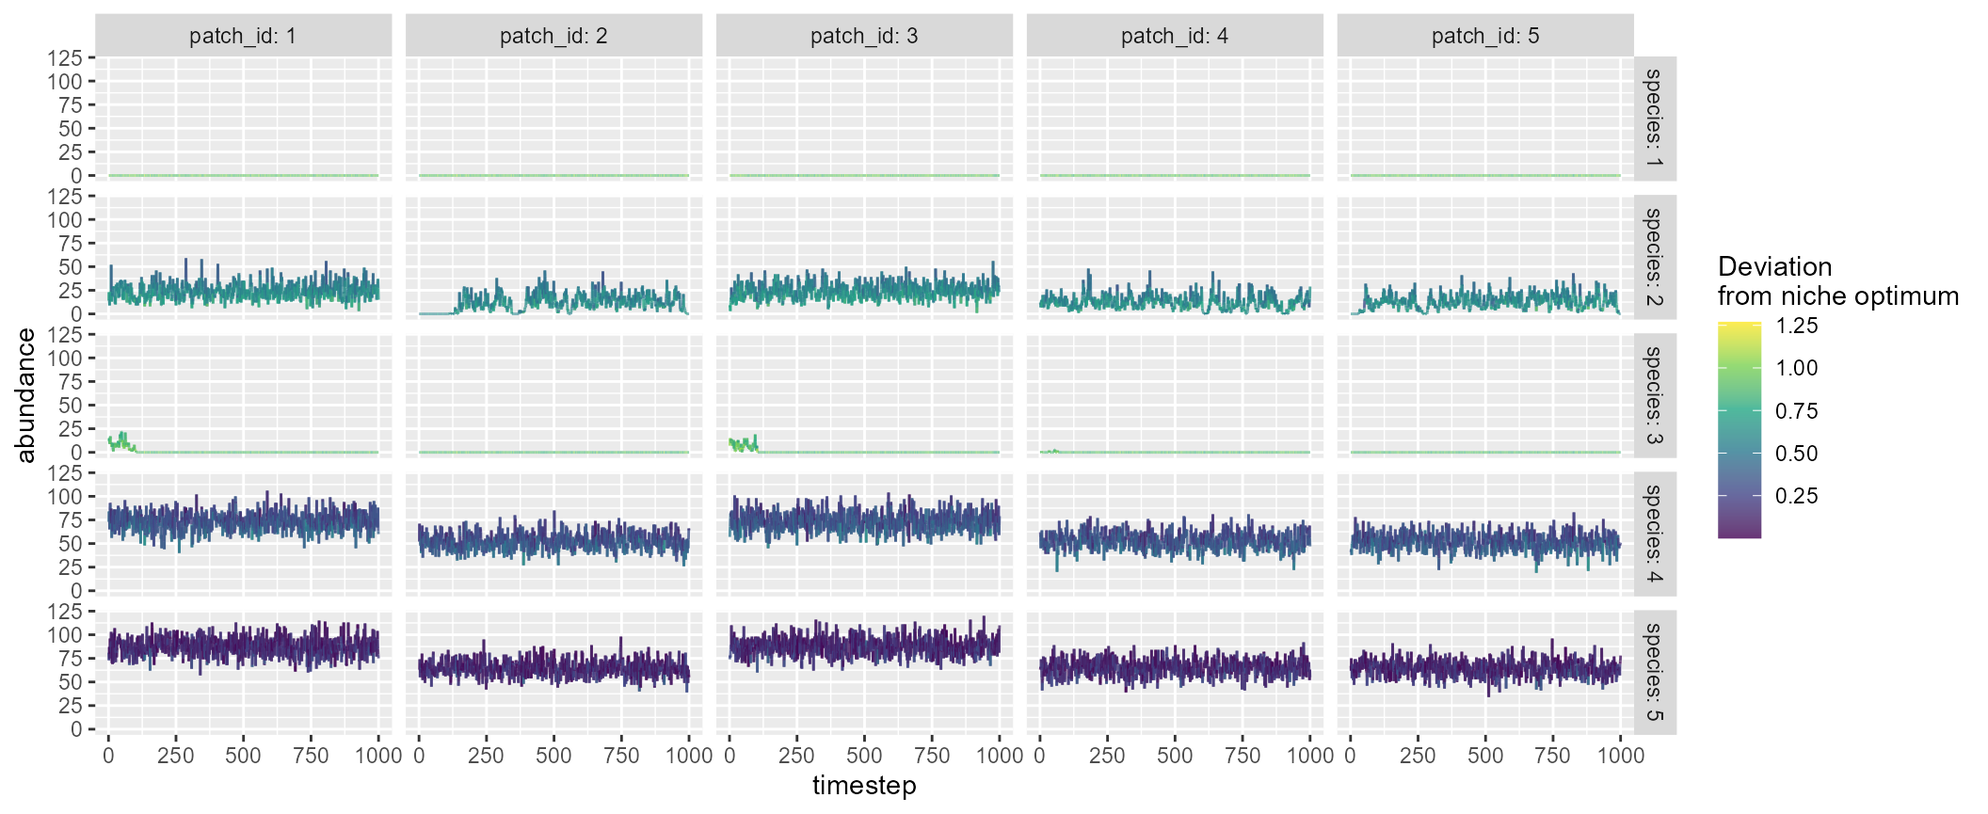
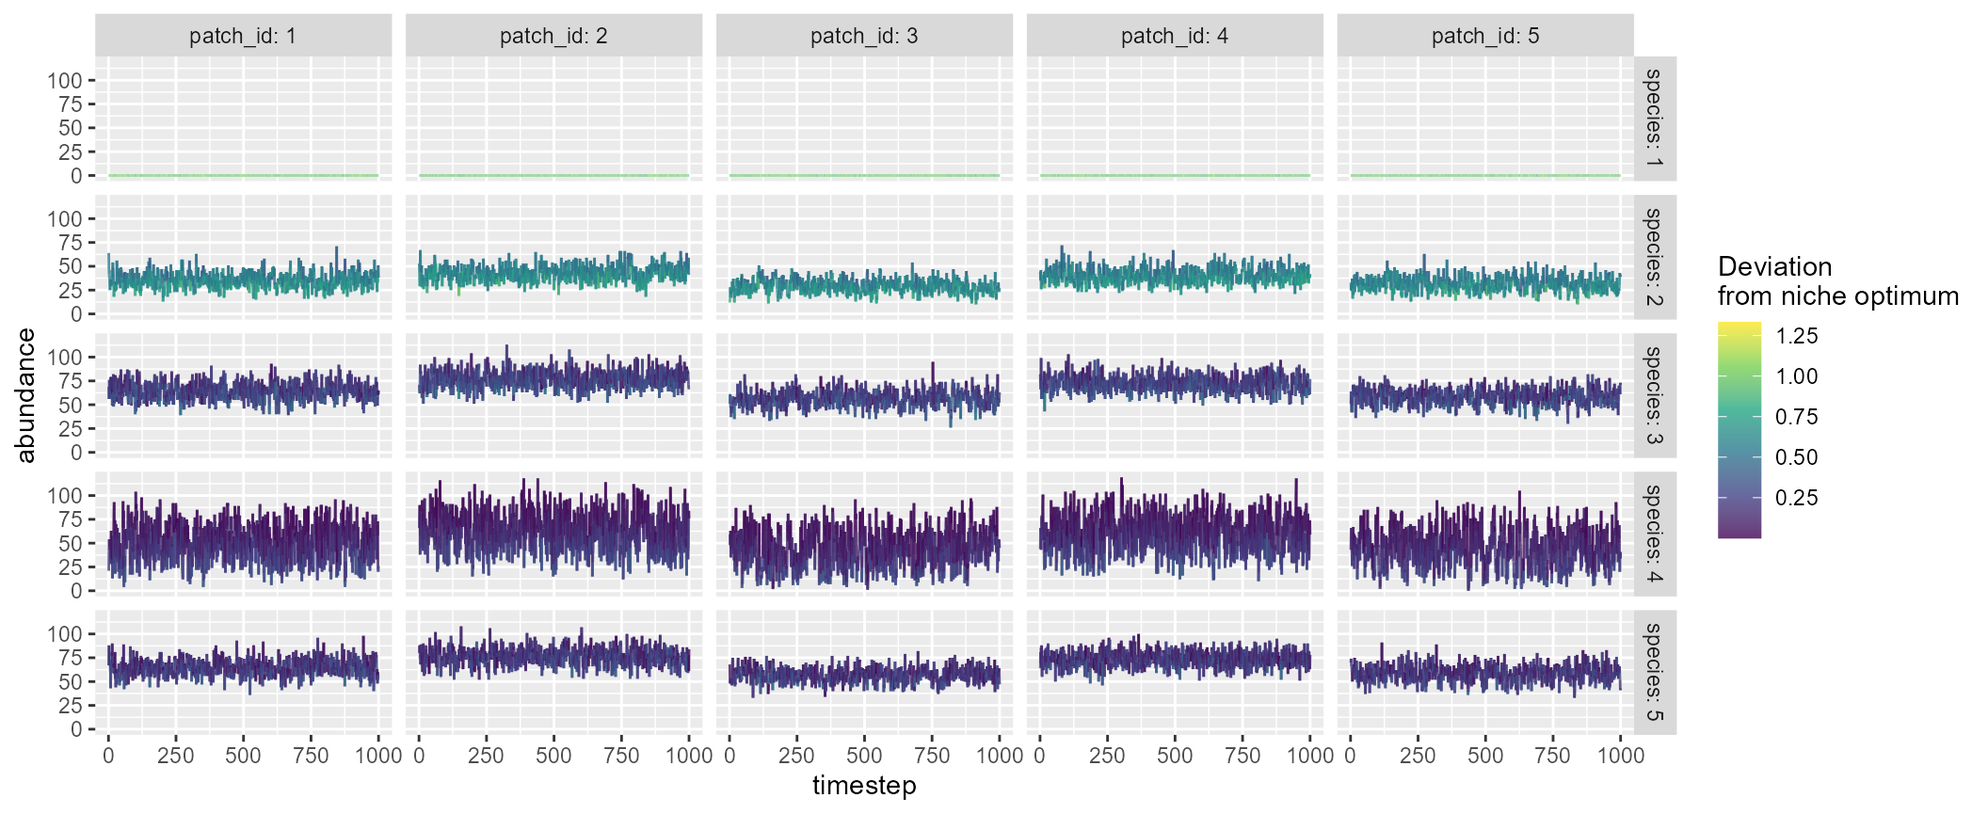
edit: pkg website

diff --git a/docs/articles/mcsim.html b/docs/articles/mcsim.html
@@ -212,64 +212,64 @@ species that are randomly chosen:</p>
 <code class="sourceCode R"><span><span class="va">mc</span></span>
 <span><span class="co">#&gt; $df_dynamics</span></span>
 <span><span class="co">#&gt; <span style="color: #949494;"># A tibble: 25,000 × 9</span></span></span>
-<span><span class="co">#&gt;    timestep patch_id mean_env    env carrying_capacity species niche_optim</span></span>
-<span><span class="co">#&gt;       <span style="color: #949494; font-style: italic;">&lt;dbl&gt;</span>    <span style="color: #949494; font-style: italic;">&lt;dbl&gt;</span>    <span style="color: #949494; font-style: italic;">&lt;dbl&gt;</span>  <span style="color: #949494; font-style: italic;">&lt;dbl&gt;</span>             <span style="color: #949494; font-style: italic;">&lt;dbl&gt;</span>   <span style="color: #949494; font-style: italic;">&lt;dbl&gt;</span>       <span style="color: #949494; font-style: italic;">&lt;dbl&gt;</span></span></span>
-<span><span class="co">#&gt; <span style="color: #BCBCBC;"> 1</span>        1        1        0  0.182               100       1      -<span style="color: #BB0000;">0.922</span></span></span>
-<span><span class="co">#&gt; <span style="color: #BCBCBC;"> 2</span>        1        1        0  0.182               100       2      -<span style="color: #BB0000;">0.600</span></span></span>
-<span><span class="co">#&gt; <span style="color: #BCBCBC;"> 3</span>        1        1        0  0.182               100       3      -<span style="color: #BB0000;">0.875</span></span></span>
-<span><span class="co">#&gt; <span style="color: #BCBCBC;"> 4</span>        1        1        0  0.182               100       4      -<span style="color: #BB0000;">0.326</span></span></span>
-<span><span class="co">#&gt; <span style="color: #BCBCBC;"> 5</span>        1        1        0  0.182               100       5      -<span style="color: #BB0000;">0.124</span></span></span>
-<span><span class="co">#&gt; <span style="color: #BCBCBC;"> 6</span>        1        2        0 -<span style="color: #BB0000;">0.107</span>               100       1      -<span style="color: #BB0000;">0.922</span></span></span>
-<span><span class="co">#&gt; <span style="color: #BCBCBC;"> 7</span>        1        2        0 -<span style="color: #BB0000;">0.107</span>               100       2      -<span style="color: #BB0000;">0.600</span></span></span>
-<span><span class="co">#&gt; <span style="color: #BCBCBC;"> 8</span>        1        2        0 -<span style="color: #BB0000;">0.107</span>               100       3      -<span style="color: #BB0000;">0.875</span></span></span>
-<span><span class="co">#&gt; <span style="color: #BCBCBC;"> 9</span>        1        2        0 -<span style="color: #BB0000;">0.107</span>               100       4      -<span style="color: #BB0000;">0.326</span></span></span>
-<span><span class="co">#&gt; <span style="color: #BCBCBC;">10</span>        1        2        0 -<span style="color: #BB0000;">0.107</span>               100       5      -<span style="color: #BB0000;">0.124</span></span></span>
+<span><span class="co">#&gt;    timestep patch_id mean_env    env carrying_capacity species niche_optim  r_xt</span></span>
+<span><span class="co">#&gt;       <span style="color: #949494; font-style: italic;">&lt;dbl&gt;</span>    <span style="color: #949494; font-style: italic;">&lt;dbl&gt;</span>    <span style="color: #949494; font-style: italic;">&lt;dbl&gt;</span>  <span style="color: #949494; font-style: italic;">&lt;dbl&gt;</span>             <span style="color: #949494; font-style: italic;">&lt;dbl&gt;</span>   <span style="color: #949494; font-style: italic;">&lt;dbl&gt;</span>       <span style="color: #949494; font-style: italic;">&lt;dbl&gt;</span> <span style="color: #949494; font-style: italic;">&lt;dbl&gt;</span></span></span>
+<span><span class="co">#&gt; <span style="color: #BCBCBC;"> 1</span>        1        1        0 0.070<span style="text-decoration: underline;">3</span>               100       1      -<span style="color: #BB0000;">0.970</span> 0.618</span></span>
+<span><span class="co">#&gt; <span style="color: #BCBCBC;"> 2</span>        1        1        0 0.070<span style="text-decoration: underline;">3</span>               100       2       0.615 2.30 </span></span>
+<span><span class="co">#&gt; <span style="color: #BCBCBC;"> 3</span>        1        1        0 0.070<span style="text-decoration: underline;">3</span>               100       3       0.248 3.12 </span></span>
+<span><span class="co">#&gt; <span style="color: #BCBCBC;"> 4</span>        1        1        0 0.070<span style="text-decoration: underline;">3</span>               100       4      -<span style="color: #BB0000;">0.139</span> 1.98 </span></span>
+<span><span class="co">#&gt; <span style="color: #BCBCBC;"> 5</span>        1        1        0 0.070<span style="text-decoration: underline;">3</span>               100       5      -<span style="color: #BB0000;">0.194</span> 2.93 </span></span>
+<span><span class="co">#&gt; <span style="color: #BCBCBC;"> 6</span>        1        2        0 0.045<span style="text-decoration: underline;">0</span>               100       1      -<span style="color: #BB0000;">0.970</span> 0.671</span></span>
+<span><span class="co">#&gt; <span style="color: #BCBCBC;"> 7</span>        1        2        0 0.045<span style="text-decoration: underline;">0</span>               100       2       0.615 2.23 </span></span>
+<span><span class="co">#&gt; <span style="color: #BCBCBC;"> 8</span>        1        2        0 0.045<span style="text-decoration: underline;">0</span>               100       3       0.248 3.09 </span></span>
+<span><span class="co">#&gt; <span style="color: #BCBCBC;"> 9</span>        1        2        0 0.045<span style="text-decoration: underline;">0</span>               100       4      -<span style="color: #BB0000;">0.139</span> 2.31 </span></span>
+<span><span class="co">#&gt; <span style="color: #BCBCBC;">10</span>        1        2        0 0.045<span style="text-decoration: underline;">0</span>               100       5      -<span style="color: #BB0000;">0.194</span> 2.97 </span></span>
 <span><span class="co">#&gt; <span style="color: #949494;"># ℹ 24,990 more rows</span></span></span>
-<span><span class="co">#&gt; <span style="color: #949494;"># ℹ 2 more variables: r_xt &lt;dbl&gt;, abundance &lt;dbl&gt;</span></span></span>
+<span><span class="co">#&gt; <span style="color: #949494;"># ℹ 1 more variable: abundance &lt;dbl&gt;</span></span></span>
 <span><span class="co">#&gt; </span></span>
 <span><span class="co">#&gt; $df_species</span></span>
 <span><span class="co">#&gt; <span style="color: #949494;"># A tibble: 5 × 6</span></span></span>
 <span><span class="co">#&gt;   species mean_abundance    r0 niche_optim sd_niche_width p_dispersal</span></span>
 <span><span class="co">#&gt;     <span style="color: #949494; font-style: italic;">&lt;dbl&gt;</span>          <span style="color: #949494; font-style: italic;">&lt;dbl&gt;</span> <span style="color: #949494; font-style: italic;">&lt;dbl&gt;</span>       <span style="color: #949494; font-style: italic;">&lt;dbl&gt;</span>          <span style="color: #949494; font-style: italic;">&lt;dbl&gt;</span>       <span style="color: #949494; font-style: italic;">&lt;dbl&gt;</span></span></span>
-<span><span class="co">#&gt; <span style="color: #BCBCBC;">1</span>       1          0         4      -<span style="color: #BB0000;">0.922</span>          0.117         0.1</span></span>
-<span><span class="co">#&gt; <span style="color: #BCBCBC;">2</span>       2         16.7       4      -<span style="color: #BB0000;">0.600</span>          0.476         0.1</span></span>
-<span><span class="co">#&gt; <span style="color: #BCBCBC;">3</span>       3          0.311     4      -<span style="color: #BB0000;">0.875</span>          0.635         0.1</span></span>
-<span><span class="co">#&gt; <span style="color: #BCBCBC;">4</span>       4         60.5       4      -<span style="color: #BB0000;">0.326</span>          0.626         0.1</span></span>
-<span><span class="co">#&gt; <span style="color: #BCBCBC;">5</span>       5         73.5       4      -<span style="color: #BB0000;">0.124</span>          0.594         0.1</span></span>
+<span><span class="co">#&gt; <span style="color: #BCBCBC;">1</span>       1            0       4      -<span style="color: #BB0000;">0.970</span>          0.562         0.1</span></span>
+<span><span class="co">#&gt; <span style="color: #BCBCBC;">2</span>       2           35.5     4       0.615          0.678         0.1</span></span>
+<span><span class="co">#&gt; <span style="color: #BCBCBC;">3</span>       3           65.4     4       0.248          0.648         0.1</span></span>
+<span><span class="co">#&gt; <span style="color: #BCBCBC;">4</span>       4           52.6     4      -<span style="color: #BB0000;">0.139</span>          0.179         0.1</span></span>
+<span><span class="co">#&gt; <span style="color: #BCBCBC;">5</span>       5           66.0     4      -<span style="color: #BB0000;">0.194</span>          0.688         0.1</span></span>
 <span><span class="co">#&gt; </span></span>
 <span><span class="co">#&gt; $df_patch</span></span>
 <span><span class="co">#&gt; <span style="color: #949494;"># A tibble: 5 × 5</span></span></span>
 <span><span class="co">#&gt;   patch_id alpha_div mean_env carrying_capacity disturbance</span></span>
 <span><span class="co">#&gt;      <span style="color: #949494; font-style: italic;">&lt;dbl&gt;</span>     <span style="color: #949494; font-style: italic;">&lt;dbl&gt;</span>    <span style="color: #949494; font-style: italic;">&lt;dbl&gt;</span>             <span style="color: #949494; font-style: italic;">&lt;dbl&gt;</span>       <span style="color: #949494; font-style: italic;">&lt;dbl&gt;</span></span></span>
-<span><span class="co">#&gt; <span style="color: #BCBCBC;">1</span>        1      3.10        0               100           0</span></span>
-<span><span class="co">#&gt; <span style="color: #BCBCBC;">2</span>        2      2.82        0               100           0</span></span>
-<span><span class="co">#&gt; <span style="color: #BCBCBC;">3</span>        3      3.10        0               100           0</span></span>
-<span><span class="co">#&gt; <span style="color: #BCBCBC;">4</span>        4      2.98        0               100           0</span></span>
-<span><span class="co">#&gt; <span style="color: #BCBCBC;">5</span>        5      2.95        0               100           0</span></span>
+<span><span class="co">#&gt; <span style="color: #BCBCBC;">1</span>        1      4           0               100           0</span></span>
+<span><span class="co">#&gt; <span style="color: #BCBCBC;">2</span>        2      4           0               100           0</span></span>
+<span><span class="co">#&gt; <span style="color: #BCBCBC;">3</span>        3      4           0               100           0</span></span>
+<span><span class="co">#&gt; <span style="color: #BCBCBC;">4</span>        4      4           0               100           0</span></span>
+<span><span class="co">#&gt; <span style="color: #BCBCBC;">5</span>        5      4.00        0               100           0</span></span>
 <span><span class="co">#&gt; </span></span>
 <span><span class="co">#&gt; $df_diversity</span></span>
 <span><span class="co">#&gt; <span style="color: #949494;"># A tibble: 1 × 3</span></span></span>
 <span><span class="co">#&gt;   alpha_div beta_div gamma_div</span></span>
 <span><span class="co">#&gt;       <span style="color: #949494; font-style: italic;">&lt;dbl&gt;</span>    <span style="color: #949494; font-style: italic;">&lt;dbl&gt;</span>     <span style="color: #949494; font-style: italic;">&lt;dbl&gt;</span></span></span>
-<span><span class="co">#&gt; <span style="color: #BCBCBC;">1</span>      2.99     1.04      3.10</span></span>
+<span><span class="co">#&gt; <span style="color: #BCBCBC;">1</span>      4.00     1.00         4</span></span>
 <span><span class="co">#&gt; </span></span>
 <span><span class="co">#&gt; $df_xy_coord</span></span>
 <span><span class="co">#&gt; <span style="color: #949494;"># A tibble: 5 × 2</span></span></span>
 <span><span class="co">#&gt;   x_coord y_coord</span></span>
 <span><span class="co">#&gt;     <span style="color: #949494; font-style: italic;">&lt;dbl&gt;</span>   <span style="color: #949494; font-style: italic;">&lt;dbl&gt;</span></span></span>
-<span><span class="co">#&gt; <span style="color: #BCBCBC;">1</span>   5.84    0.719</span></span>
-<span><span class="co">#&gt; <span style="color: #BCBCBC;">2</span>   0.879   9.37 </span></span>
-<span><span class="co">#&gt; <span style="color: #BCBCBC;">3</span>   5.44    1.35 </span></span>
-<span><span class="co">#&gt; <span style="color: #BCBCBC;">4</span>   1.58    1.96 </span></span>
-<span><span class="co">#&gt; <span style="color: #BCBCBC;">5</span>   5.09    8.55 </span></span>
+<span><span class="co">#&gt; <span style="color: #BCBCBC;">1</span>    4.61   3.89 </span></span>
+<span><span class="co">#&gt; <span style="color: #BCBCBC;">2</span>    7.73   3.81 </span></span>
+<span><span class="co">#&gt; <span style="color: #BCBCBC;">3</span>    1.79   9.28 </span></span>
+<span><span class="co">#&gt; <span style="color: #BCBCBC;">4</span>    9.06   2.29 </span></span>
+<span><span class="co">#&gt; <span style="color: #BCBCBC;">5</span>    2.04   0.581</span></span>
 <span><span class="co">#&gt; </span></span>
 <span><span class="co">#&gt; $distance_matrix</span></span>
-<span><span class="co">#&gt;           1        2         3        4        5</span></span>
-<span><span class="co">#&gt; 1 0.0000000 9.967805 0.7487931 4.430851 7.863087</span></span>
-<span><span class="co">#&gt; 2 9.9678051 0.000000 9.2195664 7.437501 4.293887</span></span>
-<span><span class="co">#&gt; 3 0.7487931 9.219566 0.0000000 3.904233 7.200890</span></span>
-<span><span class="co">#&gt; 4 4.4308514 7.437501 3.9042331 0.000000 7.461649</span></span>
-<span><span class="co">#&gt; 5 7.8630868 4.293887 7.2008905 7.461649 0.000000</span></span>
+<span><span class="co">#&gt;          1        2         3         4        5</span></span>
+<span><span class="co">#&gt; 1 0.000000 3.116507  6.079637  4.730300 4.195217</span></span>
+<span><span class="co">#&gt; 2 3.116507 0.000000  8.069575  2.025074 6.544620</span></span>
+<span><span class="co">#&gt; 3 6.079637 8.069575  0.000000 10.085397 8.700044</span></span>
+<span><span class="co">#&gt; 4 4.730300 2.025074 10.085397  0.000000 7.231054</span></span>
+<span><span class="co">#&gt; 5 4.195217 6.544620  8.700044  7.231054 0.000000</span></span>
 <span><span class="co">#&gt; </span></span>
 <span><span class="co">#&gt; $interaction_matrix</span></span>
 <span><span class="co">#&gt;      [,1] [,2] [,3] [,4] [,5]</span></span>

diff --git a/docs/articles/igpsim.html b/docs/articles/igpsim.html
@@ -204,25 +204,25 @@ by <code>plot = TRUE</code>, which will show five sample patches:</p>
 <span><span class="co">#&gt; <span style="color: #949494;"># A tibble: 15,000 × 7</span></span></span>
 <span><span class="co">#&gt;    timestep patch_id carrying_capacity disturbance species     abundance   fcl</span></span>
 <span><span class="co">#&gt;       <span style="color: #949494; font-style: italic;">&lt;dbl&gt;</span>    <span style="color: #949494; font-style: italic;">&lt;dbl&gt;</span>             <span style="color: #949494; font-style: italic;">&lt;dbl&gt;</span>       <span style="color: #949494; font-style: italic;">&lt;dbl&gt;</span> <span style="color: #949494; font-style: italic;">&lt;fct&gt;</span>           <span style="color: #949494; font-style: italic;">&lt;dbl&gt;</span> <span style="color: #949494; font-style: italic;">&lt;dbl&gt;</span></span></span>
-<span><span class="co">#&gt; <span style="color: #BCBCBC;"> 1</span>        1        1               100           0 basal              69     2</span></span>
+<span><span class="co">#&gt; <span style="color: #BCBCBC;"> 1</span>        1        1               100           0 basal              79     2</span></span>
 <span><span class="co">#&gt; <span style="color: #BCBCBC;"> 2</span>        1        1               100           0 ig-prey             0     2</span></span>
-<span><span class="co">#&gt; <span style="color: #BCBCBC;"> 3</span>        1        1               100           0 ig-predator        20     2</span></span>
-<span><span class="co">#&gt; <span style="color: #BCBCBC;"> 4</span>        1        2               100           0 basal              74     2</span></span>
+<span><span class="co">#&gt; <span style="color: #BCBCBC;"> 3</span>        1        1               100           0 ig-predator        28     2</span></span>
+<span><span class="co">#&gt; <span style="color: #BCBCBC;"> 4</span>        1        2               100           0 basal              70     2</span></span>
 <span><span class="co">#&gt; <span style="color: #BCBCBC;"> 5</span>        1        2               100           0 ig-prey             0     2</span></span>
-<span><span class="co">#&gt; <span style="color: #BCBCBC;"> 6</span>        1        2               100           0 ig-predator        41     2</span></span>
-<span><span class="co">#&gt; <span style="color: #BCBCBC;"> 7</span>        1        3               100           0 basal              74     2</span></span>
+<span><span class="co">#&gt; <span style="color: #BCBCBC;"> 6</span>        1        2               100           0 ig-predator        35     2</span></span>
+<span><span class="co">#&gt; <span style="color: #BCBCBC;"> 7</span>        1        3               100           0 basal              76     2</span></span>
 <span><span class="co">#&gt; <span style="color: #BCBCBC;"> 8</span>        1        3               100           0 ig-prey             0     2</span></span>
-<span><span class="co">#&gt; <span style="color: #BCBCBC;"> 9</span>        1        3               100           0 ig-predator        15     2</span></span>
-<span><span class="co">#&gt; <span style="color: #BCBCBC;">10</span>        1        4               100           0 basal              53     2</span></span>
+<span><span class="co">#&gt; <span style="color: #BCBCBC;"> 9</span>        1        3               100           0 ig-predator        21     2</span></span>
+<span><span class="co">#&gt; <span style="color: #BCBCBC;">10</span>        1        4               100           0 basal              58     2</span></span>
 <span><span class="co">#&gt; <span style="color: #949494;"># ℹ 14,990 more rows</span></span></span>
 <span><span class="co">#&gt; </span></span>
 <span><span class="co">#&gt; $df_species</span></span>
 <span><span class="co">#&gt; <span style="color: #949494;"># A tibble: 3 × 3</span></span></span>
 <span><span class="co">#&gt;   species     mean_abundance p_dispersal</span></span>
 <span><span class="co">#&gt;   <span style="color: #949494; font-style: italic;">&lt;fct&gt;</span>                <span style="color: #949494; font-style: italic;">&lt;dbl&gt;</span>       <span style="color: #949494; font-style: italic;">&lt;dbl&gt;</span></span></span>
-<span><span class="co">#&gt; <span style="color: #BCBCBC;">1</span> basal                 62.8         0.1</span></span>
+<span><span class="co">#&gt; <span style="color: #BCBCBC;">1</span> basal                 62.7         0.1</span></span>
 <span><span class="co">#&gt; <span style="color: #BCBCBC;">2</span> ig-prey                0           0.1</span></span>
-<span><span class="co">#&gt; <span style="color: #BCBCBC;">3</span> ig-predator           28.2         0.1</span></span>
+<span><span class="co">#&gt; <span style="color: #BCBCBC;">3</span> ig-predator           28.1         0.1</span></span>
 <span><span class="co">#&gt; </span></span>
 <span><span class="co">#&gt; $df_patch</span></span>
 <span><span class="co">#&gt; <span style="color: #949494;"># A tibble: 5 × 4</span></span></span>
@@ -230,9 +230,9 @@ by <code>plot = TRUE</code>, which will show five sample patches:</p>
 <span><span class="co">#&gt;      <span style="color: #949494; font-style: italic;">&lt;dbl&gt;</span> <span style="color: #949494; font-style: italic;">&lt;dbl&gt;</span>             <span style="color: #949494; font-style: italic;">&lt;dbl&gt;</span>       <span style="color: #949494; font-style: italic;">&lt;dbl&gt;</span></span></span>
 <span><span class="co">#&gt; <span style="color: #BCBCBC;">1</span>        1  2                  100           0</span></span>
 <span><span class="co">#&gt; <span style="color: #BCBCBC;">2</span>        2  2                  100           0</span></span>
-<span><span class="co">#&gt; <span style="color: #BCBCBC;">3</span>        3  2                  100           0</span></span>
+<span><span class="co">#&gt; <span style="color: #BCBCBC;">3</span>        3  1.99               100           0</span></span>
 <span><span class="co">#&gt; <span style="color: #BCBCBC;">4</span>        4  2                  100           0</span></span>
-<span><span class="co">#&gt; <span style="color: #BCBCBC;">5</span>        5  1.83               100           0</span></span>
+<span><span class="co">#&gt; <span style="color: #BCBCBC;">5</span>        5  2                  100           0</span></span>
 <span><span class="co">#&gt; </span></span>
 <span><span class="co">#&gt; $df_int</span></span>
 <span><span class="co">#&gt; <span style="color: #949494;"># A tibble: 3 × 4</span></span></span>
@@ -246,19 +246,19 @@ by <code>plot = TRUE</code>, which will show five sample patches:</p>
 <span><span class="co">#&gt; <span style="color: #949494;"># A tibble: 5 × 2</span></span></span>
 <span><span class="co">#&gt;   x_coord y_coord</span></span>
 <span><span class="co">#&gt;     <span style="color: #949494; font-style: italic;">&lt;dbl&gt;</span>   <span style="color: #949494; font-style: italic;">&lt;dbl&gt;</span></span></span>
-<span><span class="co">#&gt; <span style="color: #BCBCBC;">1</span>    9.98    7.67</span></span>
-<span><span class="co">#&gt; <span style="color: #BCBCBC;">2</span>    7.08    7.66</span></span>
-<span><span class="co">#&gt; <span style="color: #BCBCBC;">3</span>    8.10    6.25</span></span>
-<span><span class="co">#&gt; <span style="color: #BCBCBC;">4</span>    9.21    9.22</span></span>
-<span><span class="co">#&gt; <span style="color: #BCBCBC;">5</span>    1.74    4.41</span></span>
+<span><span class="co">#&gt; <span style="color: #BCBCBC;">1</span>  2.68      1.21</span></span>
+<span><span class="co">#&gt; <span style="color: #BCBCBC;">2</span>  7.20      1.86</span></span>
+<span><span class="co">#&gt; <span style="color: #BCBCBC;">3</span>  7.62      7.39</span></span>
+<span><span class="co">#&gt; <span style="color: #BCBCBC;">4</span>  5.17      2.14</span></span>
+<span><span class="co">#&gt; <span style="color: #BCBCBC;">5</span>  0.070<span style="text-decoration: underline;">9</span>    3.06</span></span>
 <span><span class="co">#&gt; </span></span>
 <span><span class="co">#&gt; $distance_matrix</span></span>
 <span><span class="co">#&gt;          1        2        3        4        5</span></span>
-<span><span class="co">#&gt; 1 0.000000 2.900548 2.349643 1.730506 8.859795</span></span>
-<span><span class="co">#&gt; 2 2.900548 0.000000 1.741800 2.644437 6.251042</span></span>
-<span><span class="co">#&gt; 3 2.349643 1.741800 0.000000 3.168715 6.624560</span></span>
-<span><span class="co">#&gt; 4 1.730506 2.644437 3.168715 0.000000 8.889060</span></span>
-<span><span class="co">#&gt; 5 8.859795 6.251042 6.624560 8.889060 0.000000</span></span></code></pre></div>
+<span><span class="co">#&gt; 1 0.000000 4.567917 7.917278 2.666322 3.198519</span></span>
+<span><span class="co">#&gt; 2 4.567917 0.000000 5.552375 2.042098 7.227695</span></span>
+<span><span class="co">#&gt; 3 7.917278 5.552375 0.000000 5.795612 8.699952</span></span>
+<span><span class="co">#&gt; 4 2.666322 2.042098 5.795612 0.000000 5.186865</span></span>
+<span><span class="co">#&gt; 5 3.198519 7.227695 8.699952 5.186865 0.000000</span></span></code></pre></div>
 </div>
 <div class="section level2">
 <h2 id="custom-brnet-igpsim">Custom: <code>brnet()</code> + <code>igpsim()</code><a class="anchor" aria-label="anchor" href="#custom-brnet-igpsim"></a>
